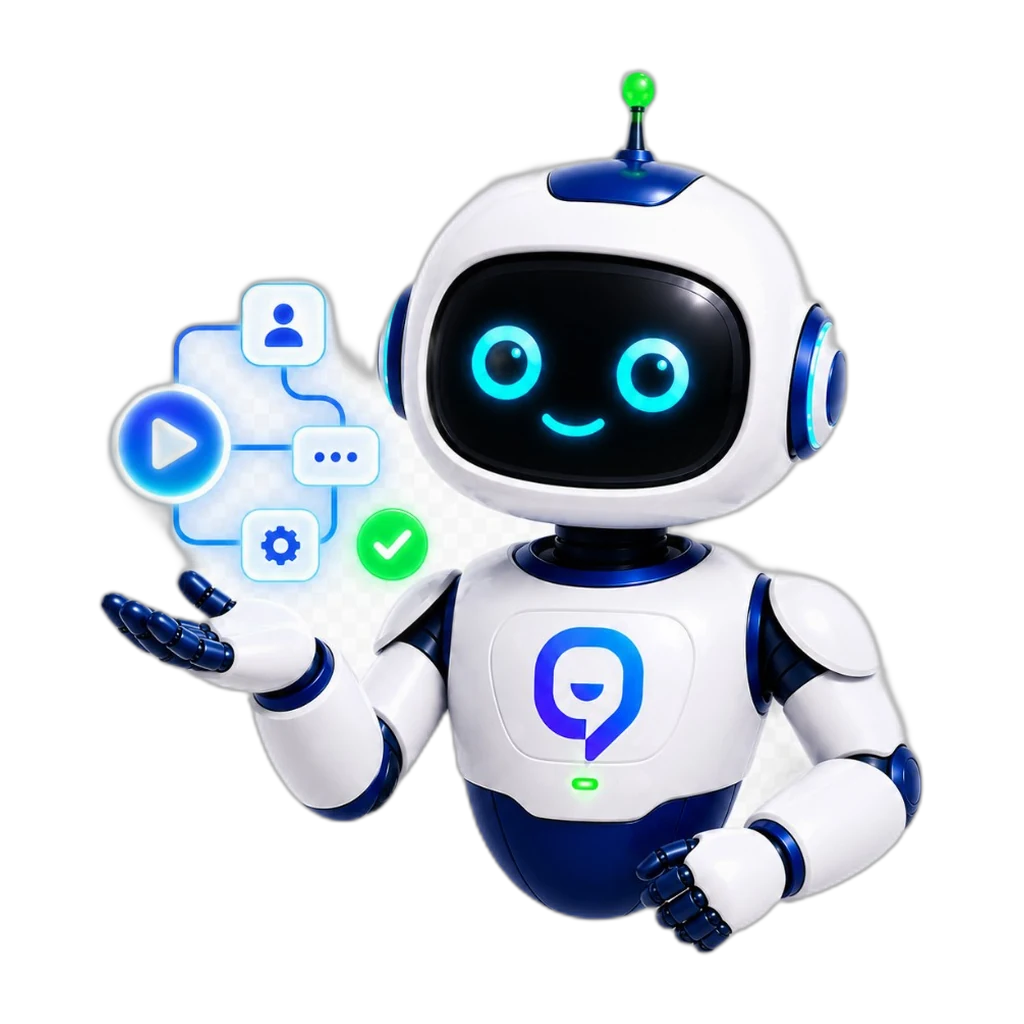
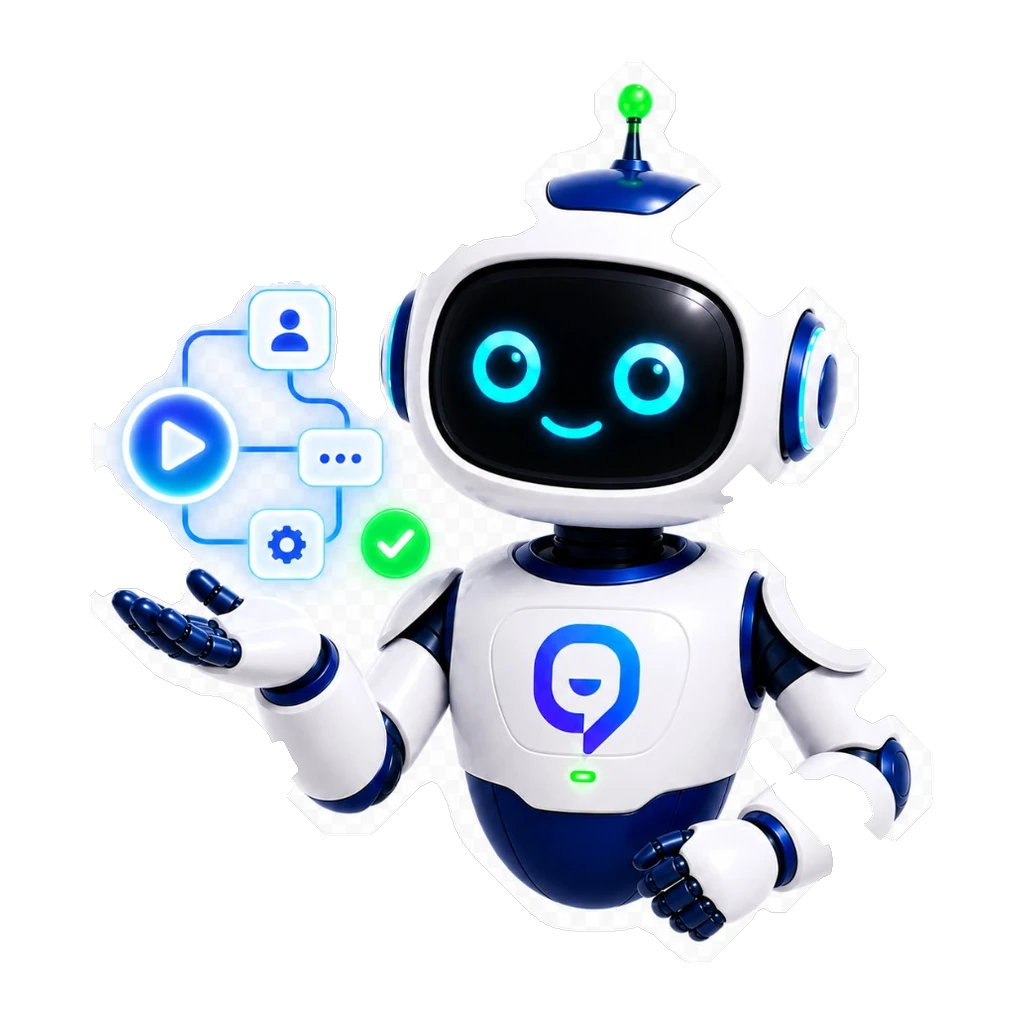
fix(lab): improve IA hero transparency without eating white robot parts
Replace naive rembg pass with a hybrid mask that removes checkerboard
background while preserving solid white body panels, hologram UI and edges.

diff --git a/landing-agent-lab/casos-de-uso/ia-automatizacion/index.html b/landing-agent-lab/casos-de-uso/ia-automatizacion/index.html
@@ -136,9 +136,9 @@
             </header>
             <div class="lab-caso-page-hero__visual" aria-hidden="true">
               <picture>
-                <source srcset="../../../assets/telvoice-agent-caso-ia-hero.webp" type="image/webp" />
+                <source srcset="../../../assets/telvoice-agent-caso-ia-hero.webp?v=20260709" type="image/webp" />
                 <img
-                  src="../../../assets/telvoice-agent-caso-ia-hero.png"
+                  src="../../../assets/telvoice-agent-caso-ia-hero.png?v=20260709"
                   alt="Agente Telvoice conectando automatizaciones y flujos SMS a numeración real"
                   width="512"
                   height="512"

diff --git a/scripts/clean-agent-caso-ia.py b/scripts/clean-agent-caso-ia.py
@@ -1,0 +1,215 @@
+#!/usr/bin/env python3
+"""Clean IA automation case hero: checkerboard-safe transparency for white robot."""
+import sys
+from collections import deque
+from pathlib import Path
+
+ROOT = Path(__file__).resolve().parents[1]
+sys.path.insert(0, str(ROOT / ".pydeps"))
+
+import numpy as np
+from PIL import Image
+from rembg import remove
+from scipy import ndimage
+
+CANVAS = 1024
+SRC = ROOT / "assets/telvoice-agent-caso-ia-source.png"
+OUT_PNG = ROOT / "assets/telvoice-agent-caso-ia-hero.png"
+OUT_WEBP = ROOT / "assets/telvoice-agent-caso-ia-hero.webp"
+
+
+def flood_border_bg(spread: np.ndarray, avg: np.ndarray, spread_max: float, avg_min: float) -> np.ndarray:
+    h, w = spread.shape
+    candidate = (spread <= spread_max) & (avg >= avg_min)
+    bg = np.zeros((h, w), dtype=bool)
+    q = deque()
+    for x in range(w):
+        for y in (0, h - 1):
+            if candidate[y, x]:
+                bg[y, x] = True
+                q.append((x, y))
+    for y in range(h):
+        for x in (0, w - 1):
+            if candidate[y, x] and not bg[y, x]:
+                bg[y, x] = True
+                q.append((x, y))
+    while q:
+        x, y = q.popleft()
+        for nx, ny in ((x + 1, y), (x - 1, y), (x, y + 1), (x, y - 1)):
+            if 0 <= nx < w and 0 <= ny < h and candidate[ny, nx] and not bg[ny, nx]:
+                bg[ny, nx] = True
+                q.append((nx, ny))
+    return bg
+
+
+def remove_small_neutral_islands(
+    spread: np.ndarray,
+    avg: np.ndarray,
+    fg: np.ndarray,
+    *,
+    spread_max: float,
+    avg_min: float,
+    max_size: int,
+) -> np.ndarray:
+    h, w = spread.shape
+    cand = fg & (spread <= spread_max) & (avg >= avg_min)
+    visited = np.zeros((h, w), dtype=bool)
+    remove = np.zeros((h, w), dtype=bool)
+    for sy in range(h):
+        for sx in range(w):
+            if not cand[sy, sx] or visited[sy, sx]:
+                continue
+            stack = [(sx, sy)]
+            visited[sy, sx] = True
+            comp = []
+            while stack:
+                x, y = stack.pop()
+                comp.append((x, y))
+                for nx, ny in ((x + 1, y), (x - 1, y), (x, y + 1), (x, y - 1)):
+                    if 0 <= nx < w and 0 <= ny < h and cand[ny, nx] and not visited[ny, nx]:
+                        visited[ny, nx] = True
+                        stack.append((nx, ny))
+            if len(comp) <= max_size:
+                for x, y in comp:
+                    remove[y, x] = True
+    return remove
+
+
+def build_foreground_mask(spread: np.ndarray, avg: np.ndarray, src: np.ndarray) -> np.ndarray:
+    """Hybrid mask: rembg structure + white-body recovery + checkerboard cleanup."""
+    h, w = spread.shape
+    pre = src.copy()
+    border_bg = flood_border_bg(spread, avg, spread_max=25, avg_min=205)
+    pre[border_bg, :3] = 255
+    pre[border_bg, 3] = 255
+    islands_pre = remove_small_neutral_islands(
+        spread, avg, ~border_bg, spread_max=18, avg_min=224, max_size=900
+    )
+    pre[islands_pre, :3] = 255
+
+    cut = np.array(remove(Image.fromarray(pre)))
+    rembg_fg = cut[:, :, 3] > 115
+
+    colorful = (spread > 26) | (avg < 188)
+    colorful_zone = ndimage.binary_dilation(colorful, iterations=14)
+    neutral = (spread <= 30) & (avg >= 175)
+    white_near = neutral & ndimage.binary_dilation(colorful_zone, iterations=22)
+
+    fg = rembg_fg | white_near | colorful
+    fg = ndimage.binary_fill_holes(fg)
+
+    checker_cand = (~colorful_zone) & (spread <= 17) & (avg >= 223)
+    checker_remove = remove_small_neutral_islands(
+        spread, avg, checker_cand, spread_max=17, avg_min=223, max_size=3500
+    )
+    fg &= ~checker_remove
+
+    holo = np.zeros((h, w), dtype=bool)
+    holo[250:580, 70:380] = True
+    holo_ui = holo & ndimage.binary_dilation(colorful, iterations=10)
+    holo_checker = (
+        holo
+        & (~ndimage.binary_dilation(holo_ui, iterations=5))
+        & (spread <= 20)
+        & (avg >= 212)
+    )
+    fg &= ~holo_checker
+
+    struct = np.ones((3, 3), dtype=bool)
+    fg = ndimage.binary_fill_holes(fg)
+    fg = ndimage.binary_closing(fg, structure=struct, iterations=1)
+    fg = ndimage.binary_opening(fg, structure=struct, iterations=1)
+    fg = peel_white_fringe(fg, spread, avg)
+    fg = ndimage.binary_erosion(fg, iterations=1)
+    fg = ndimage.binary_fill_holes(fg)
+    return fg
+
+
+def peel_white_fringe(
+    fg: np.ndarray,
+    spread: np.ndarray,
+    avg: np.ndarray,
+    *,
+    iterations: int = 12,
+) -> np.ndarray:
+    """Remove near-white matte pixels attached to the outer silhouette."""
+    h, w = fg.shape
+    fg = fg.copy()
+    peel = (spread <= 18) & (avg >= 236)
+    for _ in range(iterations):
+        changed = 0
+        remove = np.zeros((h, w), dtype=bool)
+        for y in range(1, h - 1):
+            for x in range(1, w - 1):
+                if not fg[y, x] or not peel[y, x]:
+                    continue
+                outside = sum(not fg[y + dy, x + dx] for dy in (-1, 0, 1) for dx in (-1, 0, 1) if dy or dx)
+                if outside >= 3:
+                    remove[y, x] = True
+                    changed += 1
+        fg &= ~remove
+        if not changed:
+            break
+    return fg
+
+
+def apply_alpha(src: np.ndarray, fg: np.ndarray) -> np.ndarray:
+    out = src.copy()
+    core = ndimage.binary_erosion(fg, iterations=1)
+    edge = fg & ~core
+    alpha = np.zeros(src.shape[:2], dtype=np.uint8)
+    alpha[core] = 255
+    alpha[edge] = 210
+
+    rgb = out[:, :, :3].astype(np.int16)
+    spread = np.max(rgb, axis=2) - np.min(rgb, axis=2)
+    avg = rgb.mean(axis=2)
+
+    # Drop semi-transparent white halos (background bleed on edges).
+    halo = (alpha > 0) & (alpha < 250) & (avg >= 236) & (spread <= 22)
+    alpha[halo] = 0
+
+    out[:, :, 3] = alpha
+    out[alpha == 0, :3] = 0
+    return out
+
+
+def normalize_canvas(img: Image.Image, size: int = CANVAS) -> Image.Image:
+    bbox = img.getbbox()
+    if not bbox:
+        raise RuntimeError("Empty image after background removal")
+    pad = int(max(img.size) * 0.02)
+    x0, y0, x1, y1 = bbox
+    x0, y0 = max(0, x0 - pad), max(0, y0 - pad)
+    x1, y1 = min(img.size[0], x1 + pad), min(img.size[1], y1 + pad)
+    cropped = img.crop((x0, y0, x1, y1))
+    cw, ch = cropped.size
+    scale = min((size * 0.92) / cw, (size * 0.92) / ch)
+    nw, nh = max(1, int(cw * scale)), max(1, int(ch * scale))
+    resized = cropped.resize((nw, nh), Image.Resampling.LANCZOS)
+    canvas = Image.new("RGBA", (size, size), (0, 0, 0, 0))
+    canvas.paste(resized, ((size - nw) // 2, (size - nh) // 2), resized)
+    return canvas
+
+
+def clean_caso_ia_hero(src_path: Path = SRC) -> Image.Image:
+    src = np.array(Image.open(src_path).convert("RGBA"))
+    rgb = src[:, :, :3].astype(np.int16)
+    spread = np.max(rgb, axis=2) - np.min(rgb, axis=2)
+    avg = rgb.mean(axis=2)
+    fg = build_foreground_mask(spread, avg, src)
+    out = apply_alpha(src, fg)
+    return normalize_canvas(Image.fromarray(out))
+
+
+def main() -> None:
+    clean = clean_caso_ia_hero()
+    OUT_PNG.parent.mkdir(parents=True, exist_ok=True)
+    clean.save(OUT_PNG, "PNG", optimize=True)
+    clean.save(OUT_WEBP, "WEBP", quality=90, method=6)
+    print(f"png: {OUT_PNG} ({OUT_PNG.stat().st_size} bytes)")
+    print(f"webp: {OUT_WEBP} ({OUT_WEBP.stat().st_size} bytes)")
+
+
+if __name__ == "__main__":
+    main()